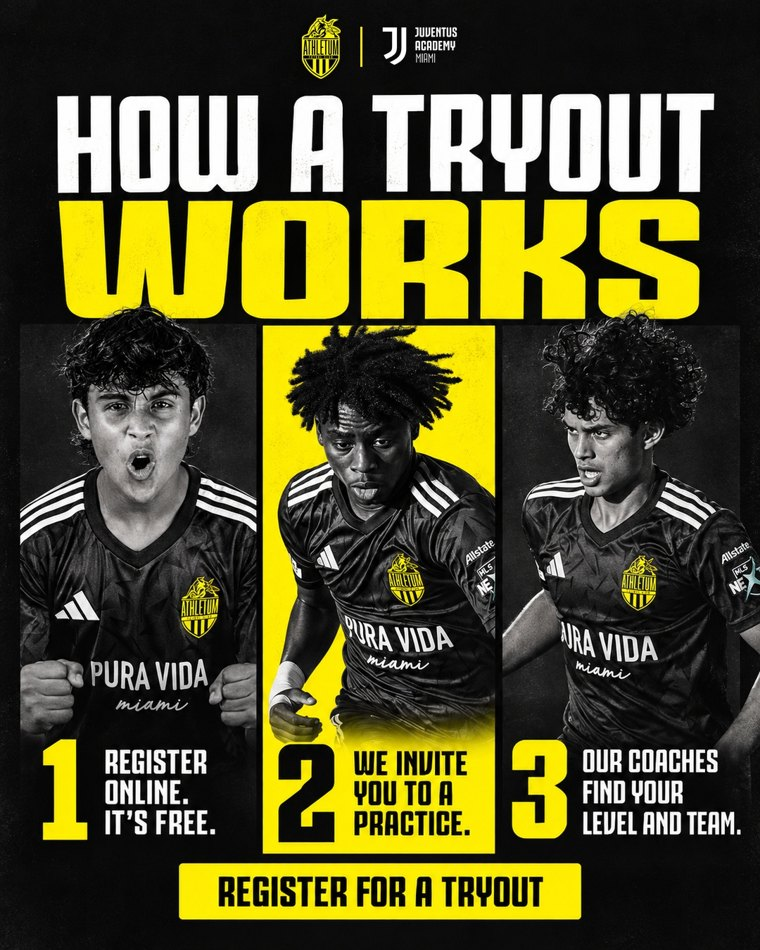
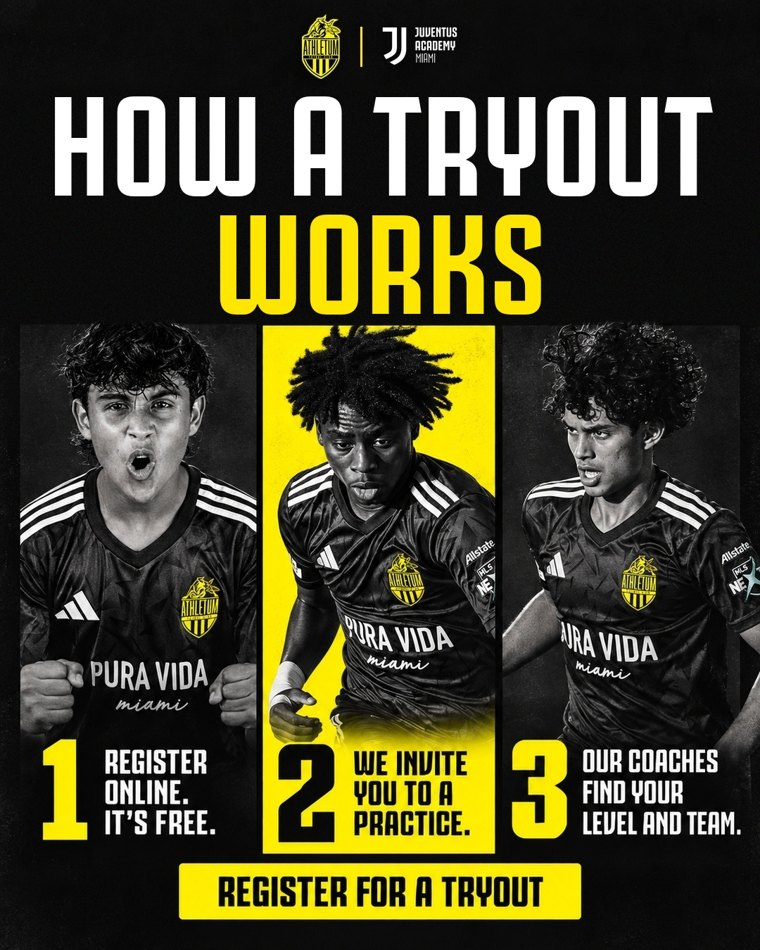
STATIC-4: titular con la fuente real (WORKS ya no se ve apretada)

diff --git a/index.html b/index.html
@@ -112,8 +112,8 @@ footer{margin-top:40px;color:var(--muted);font-size:14px;border-top:1px solid va
 </article><article class="ad pend" data-id="S4">
   <header><span class="num">3</span><h3>STATIC-4 · HOW A TRYOUT WORKS</h3><span class="estado" data-estado>Nueva · por aprobar</span></header>
   <div class="cuerpo">
-    <div class="media"><img src="assets/S4.jpg" alt="STATIC-4 · HOW A TRYOUT WORKS" loading="lazy">
-      <a class="dl" href="assets/S4_1080.jpg" target="_blank" rel="noopener">Ver a tamaño real</a>
+    <div class="media"><img src="assets/S4.jpg?v=2" alt="STATIC-4 · HOW A TRYOUT WORKS" loading="lazy">
+      <a class="dl" href="assets/S4_1080.jpg?v=2" target="_blank" rel="noopener">Ver a tamaño real</a>
       <p class="nota-pieza">Rediseño con ChatGPT: tres franjas tipo &quot;Matchday&quot; (el mismo formato que se aprobó en Las Vegas), un jugador real por paso.</p></div>
     <div class="copy">
       <div class="lbl">Texto principal · inglés <span class="hint">· se puede editar</span></div>
